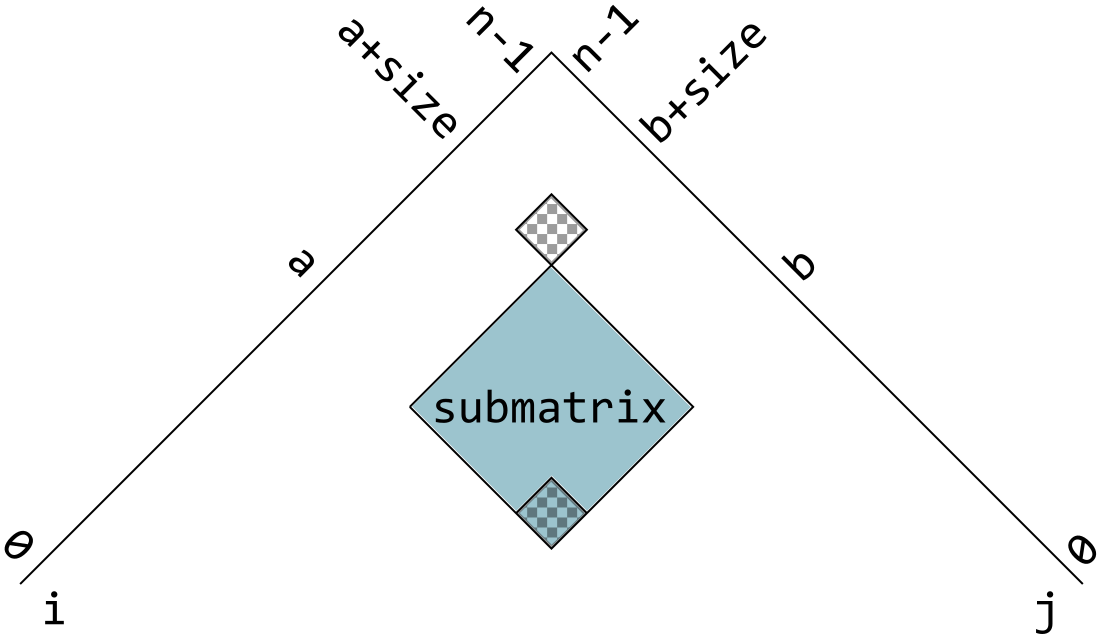
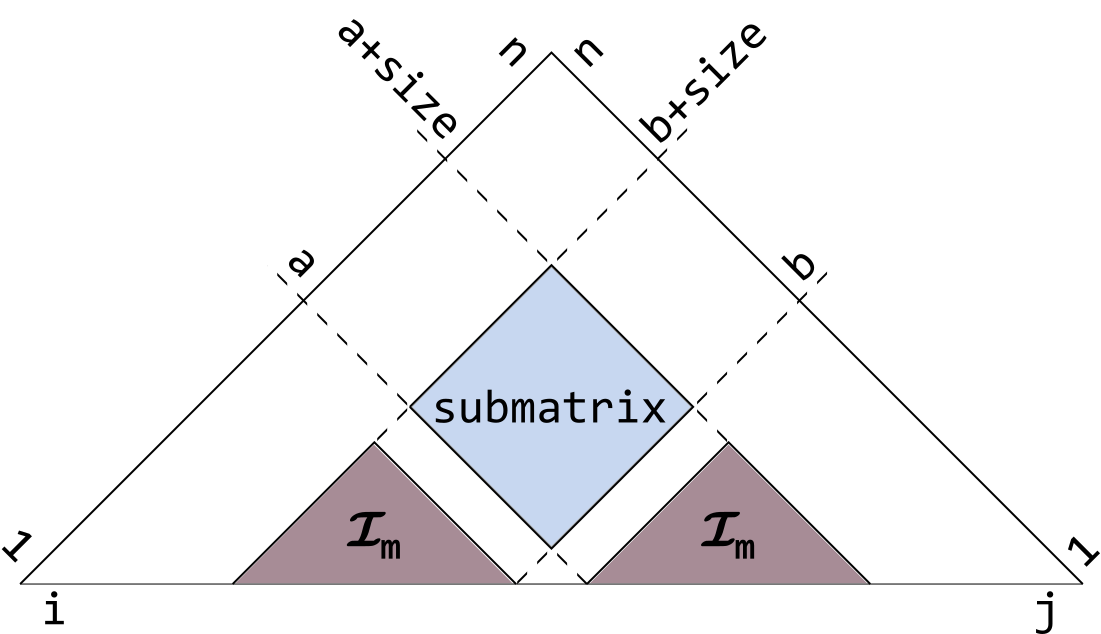
modificated CYK description updated

diff --git a/2016/bio/modificated CYK/jbalg.tex b/2016/bio/modificated CYK/jbalg.tex
@@ -23,32 +23,29 @@
 \newtheorem*{note}{Note}
 
 \setlength{\parskip}{5pt plus 2pt minus 1pt}
-\setlength{\parindent}{0pt}
+%\setlength{\parindent}{0pt}
 
 \usepackage{color}
 \usepackage{listings}
 \usepackage{caption}
 \usepackage{graphicx}
+\usepackage{ucs}
 
 \graphicspath{{pics/}}
 
 
-% \newcounter{nalg}[section] % defines algorithm counter for chapter-level
-% \renewcommand{\thenalg}{\thechapter .\arabic{nalg}} %defines appearance of the algorithm counter
-% \DeclareCaptionLabelFormat{algocaption}{Algorithm \thenalg} % defines a new caption label as Algorithm x.y
-
-\lstnewenvironment{algorithm}[1][] %defines the algorithm listing environment
+\lstnewenvironment{algorithm}[1][]
 {   
-    % \refstepcounter{nalg} %increments algorithm number
-    % \captionsetup{labelformat=algocaption,labelsep=colon} %defines the caption setup for: it ises label format as the declared caption label above and makes label and caption text to be separated by a ':'
-    \lstset{ %this is the stype
+    \lstset{ 
         frame=tB,
         numbers=left, 
         mathescape=true,
         numberstyle=\small,
         basicstyle=\small, 
+        inputencoding=utf8, 
+        extendedchars=\true,
         keywordstyle=\color{black}\bfseries,
-        keywords={,function, procedure, return, datatype, function, in, if, else, for, foreach, while, begin, end, denote, do, and, then,} %add the keywords you want, or load a language as Rubens explains in his comment above.
+        keywords={,function, procedure, return, datatype, function, in, if, else, for, foreach, while, denote, do, and, then, assert,} 
         numbers=left,
         xleftmargin=.04\textwidth,
         #1 % this is to add specific settings to an usage of this environment (for instnce, the caption and referable label)
@@ -68,137 +65,221 @@
 
 \begin{document}
 
-В работе (Охотин) предложен алгоритм ....
 
-АЛГОРТМ
+В работе~\cite{okhotin13} предложен алгоритм синтаксического анализа, основанный на перемножении матриц. 
+Для того, чтобы описать модификацию этого алгоритма, в разделе~\ref{se:term} мы введем немного измененную терминологию, дальше, в разделе~\ref{se:okhotin} переформулируем оригинальный алгоритм в рамках этой терминологии. Обещанную модификацию алгоритма опишем в секции \ref{se:modification}.
 
-Далее предложена модификация данного алгоритма. 
 
-Введем обозначения, немного отличающиеся от используемых в статье (Охотин, 2013).
-Пусть $G=(\Sigma, N, R, S)$ --- грамматика и $w = a_0 \dots a_{n-1}$ --- строка, причем $n + 1 = 2^k$. $T$ --- треугольная матрица $n \times n$ с элементами $T[i,j] \subseteq N$. Цель алгоритма --- заполнить ячейки матрицы $T$ так, чтобы выполнялось следующее условие:
+\section{Терминология}
+\label{se:term}
+% todo: нормальное название секции
+
+Введем обозначения, немного отличающиеся от используемых в статье~\cite{okhotin13}.
+Пусть $G=(\Sigma, N, R, S)$ --- грамматика в нормальной форме Хомского и $w = a_1 \dots a_{n}$ --- строка, причем $n + 1 = 2^k$. Ограничение на длину строки (для обоих рассмотренных алгоритмов) введены скорее из соображений простоты изложения, так как оба алгоритма довольно легко обобщаются на строки произвольной длины. Далее, пусть $T$ --- треугольная матрица $n \times n$ с элементами $T[i,j] \subseteq N;\ 1 \leqslant i, j \leqslant n$. Цель алгоритма --- заполнить ячейки матрицы $T$ так, чтобы выполнялось следующее условие:
 $$
-T[i,j] = \{A\,|\,a_{n-1-j} \dots a_{i} \in L(A)\}, \tab \mbox{при } 0 \leqslant i, j \leqslant n-1 \leqslant i+j\,.
+T[i,j] = \{A\,|\,a_{n+1-j} \dots a_{i} \in L(A)\}, \tab \mbox{при } 1 \leqslant i, j \leqslant n < i+j\,.
 $$
-Вторая матрица $P$ с элементами $P[i,j] \subseteq N \times N$ в результате должна быть заполнена значениями 
+Вспомогательная матрица $P$ с элементами $P[i,j] \subseteq N \times N$ в результате должна быть заполнена значениями 
 $$
-P[i,j] = \{(B,C)\, |\, a_{n-1-j} \dots a_{i} \in L(B)L(C)\}, \tab 0 \leqslant i, j \leqslant n-1 \leqslant i+j\,.
+P[i,j] = \{(B,C)\, |\, a_{n+1-j} \dots a_{i} \in L(B)L(C)\}, \tab 1 \leqslant i, j \leqslant n < i+j\,.
 $$
 
-\begin{definition}\label{def:def_1}
-Назовем \textit{(квадратной) подматрицей} такой набор пар индексов $S=\{(i,j)\}$, что для каких-то $0 \leqslant a, b\leqslant n-1 \leqslant a+b$ и $0 < size \leqslant n-a,n-b$  любая пара $(i,j)$, удовлетворяющая условиям $a \leqslant i < a + size$ и $b \leqslant j < b + size$, принадлежит множеству $S$. Тогда $size$ --- \textit{размер}, а пара индексов $(a,b)$ --- \textit{вершина} этой подматрицы.
+\begin{definition}
+Будем называть $(i, j)$ \textit{корректной} парой индексов, если для них выполнены условия $1 \leqslant i, j \leqslant n < i+j$.
+\end{definition}
+
+Заметим, что алгоритм в принципе рассматривает только те ячейка матриц $T$ и $P$, которые задаются корректными парами индексов.
+
+\begin{definition}
+\label{def:def_1}
+Назовем \textit{(квадратной) подматрицей} такой набор корректных пар индексов $S=\{(i,j)\}$, что существуют корректная пара индексов $(a, b)$ и $size > 0$, для которых выполнены следующие условия: $size \leqslant n+1-a$, $size \leqslant n+1-b$, а также любая пара $(i,j)$, удовлетворяющая условиям $a \leqslant i < a + size$ и $b \leqslant j < b + size$, принадлежит множеству $S$. Тогда $size$ --- \textit{размер}, а пара индексов $(a,b)$ --- \textit{вершина} этой подматрицы.
+\end{definition}
+
+\begin{definition}
+\label{def:def_2}
+Для подматрицы $m$ с вершиной $(a,b)$ и размером $s$ определим множество индексов $\mathcal{I}_m$, \textit{влияющее на подматрицу $m$}, как 
+$$\mathcal{I}_m = \{(i, j)\,|\,i < n + 1 - b,\,j < b + s\} \cup \{(i, j)\,|\,i < a + s,\,j < n + 1 - a\}\,.$$
 \end{definition}
 
 
-\begin{figure}[!ht]
+\begin{figure}[!h]
   \centering
     \includegraphics[width=0.9\linewidth]{submatrix.png}
-  \caption{Иллюстрация к определению~\ref{def:def_1}}
+  \caption{Иллюстрация к определениям~\ref{def:def_1} и \ref{def:def_2}: $(a,b)$ --- вершина подматрицы submatrix размером (size$\times$size); $\mathcal{I}_m$ --- зона, влияющая на подматрицу submatrix}
   \label{gr:submatrix}
 \end{figure}
-
 
 \begin{definition}
 Пусть $S$ --- подматрица. Будем обозначать через $T[S]$ и $P[S]$ подматрицы матриц $T$ и $P$, соответствующие множеству индексов $S$.
 \end{definition}
 
-Для описания алгоритма нам в первую очередь необходимо задать структуру для представления подматриц и определить для этой структуры следующие функции.
+\pagebreak
 
-\begin{algorithm}[caption={Submatrix helpers.}, label={helpers}]
-function size(submatrix)
-function vertex(submatrix)
+Для описания алгоритмов нам необходимо задать ряд вспомогательных функций для оперирования подматрицами. Эти функции представлены в листинге~\ref{helpers}.
 
-function leftSubmatrix(submatrix)
-function topSubmatrix(submatrix)
-function rightSubmatrix(submatrix)
-function bottomSubmatrix(submatrix)
+\begin{algorithm}[caption={Вспомогательные функции обработки подматриц}, label={helpers}]
+function $size(m)$
+function $bottomCell(m)$
 
-function rightNeighbor(submatrix)
-function leftNeighbor(submatrix)
-function rightGrounded(submatrix)
-function leftGrounded(submatrix)     
+function $leftSubmatrix(m)$
+function $topSubmatrix(m)$
+function $rightSubmatrix(m)$
+function $bottomSubmatrix(m)$
+
+function $rightNeighbor(m)$
+function $leftNeighbor(m)$
+function $rightGrounded(m)$
+function $leftGrounded(m)$     
 \end{algorithm}
 
-Здесь, функции size и vertex вычисляют соответственно размер и вершину подматрицы. Следующие четыре функции leftSubmatrix ---\linebreak bottomSubmatrix возвращают одну из подматриц, делящих исходную подматрицу на четыре части, как показано на рисунке \ref{gr:inner}.
+Функции $size(m)$ и $bottomCell(m)$ вычисляют размер и вершину подматрицы $m$ соответственно. Следующие четыре функции $leftSubmatrix(m)$~--- $bottomSubmatrix(m)$ возвращают одну из подматриц, делящих исходную подматрицу $m$ на четыре части, как показано на рисунке \ref{gr:inner}.
 
 
 \begin{figure}[!ht]
-  \caption{Иллюстрация к листингу}
-  \label{gr:inner}
   \centering
     \includegraphics[width=0.9\linewidth]{inner.png}
+  \caption{Иллюстрация к листингу~\ref{helpers}: разбиение матрицы на 4 компоненты}
+  \label{gr:inner}
 \end{figure}
 
 \pagebreak
 
-В свою очередь функции rightNeighbor --- leftGrounded возвращают подматрицы, сдвинутые относительно исходной так, как показано на рисунке \ref{gr:outer}.
+В свою очередь функции $rightNeighbor(m)$ и $leftNeighbor(m)$ возвращают подматрицы, сдвинутые относительно исходной на $size(m)$ по одной из осей, как показано на рисунке \ref{gr:outer}.
+Функции $rightGrounded(m)$ и $leftGrounded(m)$ (рисунок \ref{gr:outer}) также возвращают подматрицы, сдвинутые относительно $m$, но на этот раз величина сдвига вычисляется по формуле $a + b - (n + 1)$, где $(a,b)$ --- вершина матрицы $m$.
+Заметим, что для вершины $(i,j)$ любой их двух матриц $rightGrounded(m)$ и $leftGrounded(m)$ выполняется равенство $i + j = n + 1$. Это означает, что вершина расположена в самой <<нижней>> из использующихся диагоналей всей матрицы. 
 
 \begin{figure}[!ht]
-  \caption{Иллюстрация к листингу}
-  \label{gr:outer}
   \centering
     \includegraphics[width=0.9\linewidth]{outer.png}
-\end{figure}
+  \caption{Иллюстрация к листингу~\ref{helpers}: соседи матрицы}
+  \label{gr:outer}
+\end{figure} 
 
-Теперь можно приступить к описанию самого алгоритма. Он состоит из трех процедур.
 
-Главная процедура main сначала обрабатывает нижний слой матрицы $T$ (клетки $(i,j)$, для которых $i+j=n-1$), записывая в него корректные значения. Потом разбивает матрицу $T$ на слои, как показано на картинке \ref{gr:layers} (каждый слой состоит из набора подматриц, у каждой из которых отброшена нижняя четверть --- bottomSubmatrix). Полученные слои обрабатываются последовательно снизу вверх, с помощью процедуры completeVLayer, заполняя тем самым всю матрицу $T$. 
 
-\begin{figure}[!ht]
-  \caption{Первичное разбиение на слои}
-  \label{gr:layers}
-  \centering
-    \includegraphics[width=0.9\linewidth]{layers.png}
-\end{figure}
 
-Процедура completeVLayer, в свою очередь, принимает на вход набор подматриц $M$. Для каждого элемента $m$ этого набора процедура достраивает матрицу $T$ для трех верхних четвертей (leftSubmatrix$(m)$, \linebreak rightSubmatrix$(m)$ и topSubmatrix$(m)$). Для корректной работы этой функции необходимо, чтобы для любой $m \in M$ ячейки $T[i,j]$ были построены  для $(i,j) \in\ $bottomSubmatrix$(m)$, а также для таких $(i,j)$, что $i < a, j < b+s$ или $i < a+s, j < b$, где $(a,b)$ --- вершина, а $s$ --- размер подматрицы $m$. 
+\section{Алгоритм синтаксического анализа, основанный на перемножении матриц}
+\label{se:okhotin}
 
-Третья процедура --- completeLayer --- тоже принимает на вход набор подматриц $M$, но для каждого элемента $m$ этого набора достраивает матрицу $T$ для всей подматрицы $m$. Для корректной работы этой функции требуется, чтобы для любой $m \in M$ ячейки $T[i,j]$ были построены для таких $(i,j)$, что $i < a, j < b+s$ или $i < a+s, j < b$, где $(a,b)$ --- вершина, а $s$ --- размер подматрицы $m$. 
+Описание алгоритма, взятого из статьи ~\cite{okhotin13}, представлено в виде псевдокода, приведённого в следующем листинге~\ref{alg:okhotin}. 
 
-\begin{algorithm}[caption={Algorithm.}, label={main}]
-procedure main():
-  for $\ell$ in $(0,\,\dots,\,n-1)$ do
-    $T[\ell, n-1-\ell] = \{A\,|\,A \to a_{\ell} \in R\}$
-  for i in 1 .. k-1 do
-    denote layer = constructLayer(i)
-    completeVLayer(layer)  
+Здесь, процедура $compute(i, j)$ принимает на вход такие $i, j$, что $(i-1,j-1)$~--- корректная пара индексов и записывает значения во все ячейки $(i', j')$ матрицы $T$ такие, что  $i' + j' > n$, $i' < i$ и $j' < j$. 
 
-procedure completeLayer($M$):
-  if $m \in M$ and size($m$) = 1 then
-    denote cells = $\{$vertex$(m)\,|\, m \in M\}$
-    foreach $(x, y) \in $ cells do
-      T[x, y] = f(P[x, y])
-  else
-    denote bottomLayer = $\{$bottomSubmatrix$(m)\,|\,m \in M\}$
-    completeLayer(bottomLayer)
-    completeVLayer($M$)     
+Процедура $complete(m)$, в свою очередь, принимает на вход подматрицу $m$ и определена только для подматриц с размером, являющимся степенью двойки. $complete(m)$ вычисляет все значения матрицы $T$ на переданном ей множестве индексов $m$, при выполнении некоторых дополнительных условий. Во-первых, матрица $T$ должны быть корректно заполнена для всех пар индексов из множества $\mathcal{I}_m$. Во-вторых для всех $(i,j) \in m$ текущее значение $P[i,j]$ должно быть следующим:
+$$\{(B,C)\,|\,\exists k: n + 1 - b \leqslant k < a,\ a_{n+1-j}\dots a_k \in L(B) \mbox{ и } a_{k+1}\dots a_i \in L(C)\}\,,$$
+где $(a,b)$~--- вершина подматрицы $m$.
 
-procedure completeVLayer($M$):
-  denote leftSubLayer = $\{$leftSubmatrix$(m)\,|\,m \in M\}$
-  denote rightSubLayer = $\{$rightSubmatrix$(m)\,|\,m \in M\}$
-  denote topSubLayer = $\{$topSubmatrix$(m)\,|\,m \in M\}$
-
-  foreach $m \in$ leftSubLayer do
-    P[m] = P[m] $\cup$ (T[leftGrounded(m)] $\times$ T[rightNeighbor(m)])
-  foreach $m \in$ rightSubLayer do
-    P[m] = P[m] $\cup$ (T[leftNeighbor(m)] $\times$ T[rightGrounded(m)])
-
-  completeLayer(leftSubLayer $\cup$ rightSubLayer)
-
-  foreach $m \in$ topSubLayer do
-    P[m] = P[m] $\cup$ (T[leftGrounded(m)] $\times$ T[rightNeighbor(m)])
-  foreach $m \in$ topSubLayer do
-    P[m] = P[m] $\cup$ (T[leftNeighbor(m)] $\times$ T[rightGrounded(m)])
-
-  completeLayer(topSubLayer)  
+\begin{algorithm}[caption={Алгоритм синтаксического анализа, основанный на перемножении матриц}, label={alg:okhotin}] 
+procedure $main()$:
+    $compute(n + 1, n + 1)$
+    
+procedure $compute(i, j)$:
+    if $i + j - n \geqslant 4$ then
+        $compute\left(i, \frac{j}{2}\right)$
+        $compute\left(\frac{i}{2}, j\right)$
+    denote $m = submatrixByBottomCellAndSize\left(\left(\frac{n + i - j}{2},\frac{n + j - i}{2}\right),\ \frac{i + j - n}{2}\right)$
+    $complete(m)$
+    
+procedure $complete(m)$
+    denote $(i, j) = bottomCell(m)$
+    if $size(m) = 1$ and $i + j = n$ then
+        $T[i,j] = \{A\,|\,A\to a_i \in R\}$
+    else if $size(m) = 1$ then
+        $T[i,j] = f(P[i,j])$
+    else if $size(m) > 1$ then
+        denote $\mathcal{B} = bottomSubmatrix(m)$, $\mathcal{L} = leftSubmatrix(m)$,
+               $\mathcal{R} = rightSubmatrix(m)$, $\mathcal{T} = topSubmatrix(m)$
+        $complete(\mathcal{B})$
+        $P[\mathcal{L}] = P[\mathcal{L}] \cup \left(T[leftGrounded(\mathcal{L})] \times T[\mathcal{B}]\right)$
+        $complete(\mathcal{L})$
+        $P[\mathcal{R}] = P[\mathcal{R}] \cup \left(T[\mathcal{B}] \times T[rightGrounded(\mathcal{R})]\right)$
+        $complete(\mathcal{R})$
+        $P[\mathcal{T}] = P[\mathcal{T}] \cup \left(T[leftGrounded(\mathcal{T})] \times T[\mathcal{R}]\right)$
+        $P[\mathcal{T}] = P[\mathcal{T}] \cup \left(T[\mathcal{L}] \times T[rightGrounded(\mathcal{T})]\right)$
+        $complete(\mathcal{T})$
 \end{algorithm}
 
-Процедура main реализуется через completeVLayer очевидным образом. Процедура completeLayer по сути аналогична процедуре complete из статьи, за исключением того, что она выполняется сразу для нескольких матриц. Таким же образом отдельно разбирается случай, когда переданные матрицы имеют размер $1 \times 1$. Иначе матрицы разбиваются на четыре части и сначала следует рекурсивный вызов от bottomSubmatrix (для всех переданных матриц), а затем вызов процедуры completeVLayer, которая обрабатывает верхние части матриц. 
+\section{Модифицированный алгоритм}
+\label{se:modification}
 
-Процедура completeVLayer для каждой из переданных матриц сначала выполняет два перемножения (соответствует 14 и 16 строкам в алгоритме из статьи), затем вызывает completeLayer от rightSubmatrix и leftSubmatrix (15 и 17 строки оригинального алгоритма), далее выполняет оставшиеся два умножения (строки 18 и 19) и, наконец, вызывает completeLayer от оставшейся части topSubmatrix (строка 20).
+Далее предложена модификация исходного алгоритма синтаксического анализа, предназначенная для его более естественной адаптации к задаче поиска подстрок, выводимых в заданной грамматике.
+
+Главная процедура $main$ сначала обрабатывает нижний слой матрицы $T$ (клетки $(i,j)$, для которых $i+j=n+1$), записывая в него корректные значения. Потом разбивает матрицу $T$ на слои, как показано на картинке \ref{gr:layers} (каждый слой состоит из набора подматриц, у каждой из которых отброшена нижняя четверть --- $bottomSubmatrix$). Полученные слои обрабатываются последовательно снизу вверх, с помощью процедуры $completeVLayer$, заполняя тем самым всю матрицу $T$.
+
+\begin{figure}[!ht]
+  \centering
+    \includegraphics[width=0.9\linewidth]{layers.png}
+  \caption{Первичное разбиение на слои}
+  \label{gr:layers}
+\end{figure}
 
 
-Представленная модификация позволяет ....
+Процедура $completeVLayer$, в свою очередь, принимает на вход набор подматриц $M$. Эти подматрицы не должны пересекаться, а также для любых двух подматриц $m_1, m_2 \in M$; $(a_i,b_i),\ s_i$~--- вершина и размер $m_i$ соответственно, должно выполняться $s_1 = s_2$ и $a_1 + b_1 = a_2 + b_2$. Для каждого элемента $m$ множества $M$ процедура достраивает матрицу $T$ для трех верхних четвертей ($leftSubmatrix(m)$, $rightSubmatrix(m)$ и $topSubmatrix(m)$). Для корректной работы этой функции, во-первых, необходимо, чтобы для любой $m \in M$ ячейки $T[i,j]$ были построены  для $(i,j) \in\ bottomSubmatrix(m)$ и для $(i,j) \in\ \mathcal{I}_m$. Во-вторых, требуется удовлетворение ограничения на матрицу $P$, аналогичного ограничению в случае процедуры $complete$ оригинального алгоритма, а именно: для любой $m \in M$ и для всех $(i,j) \in m$ текущее значение $P[i,j]$ должно быть следующим:
+$$\{(B,C)\,|\,\exists k: n + 1 - b \leqslant k < a,\ a_{n+1-j}\dots a_k \in L(B) \mbox{ и } a_{k+1}\dots a_i \in L(C)\}\,,$$
+где $(a,b)$~--- вершина подматрицы $m$.
 
+Третья процедура --- $completeLayer$ --- тоже принимает на вход набор подматриц $M$, но для каждого элемента $m$ этого набора достраивает матрицу $T$ для всей подматрицы $m$. Ограничения на входные данные такие же, как и у процедуры $completeVLayer$. Для корректной работы этой функции необходимо, чтобы для любой $m \in M$ ячейки $T[i,j]$ были построены для $\mathcal{I}_m$, а так же выполнение того же требования на $P$, что и в предыдущем случае. 
 
+\begin{algorithm}[caption={Алгоритм}, label={main}]
+procedure $main()$:
+  for $\ell$ in $(1,\,\dots,\,n)$ do
+    $T[\ell, n+1-\ell] = \{A\,|\,A \to a_{\ell} \in R\}$
+  foreach $1 \leqslant i < k$ do
+    denote layer = $constructLayer(i)$
+    $completeVLayer($layer$)$  
+
+procedure $completeLayer(M)$:
+  if $\forall\ m \in M$, $size(m) = 1$ then
+    denote cells = $\{bottomCell(m)\,|\, m \in M\}$
+    foreach $(x, y) \in $ cells do
+      $T[x, y] = f(P[x, y])$
+  else
+    denote bottomLayer = $\{bottomSubmatrix(m)\,|\,m \in M\}$
+    $completeLayer($bottomLayer$)$
+    $completeVLayer(M)$     
+
+procedure $completeVLayer(M)$:
+  denote leftSubLayer = $\{leftSubmatrix(m)\,|\,m \in M\}$
+  denote rightSubLayer = $\{rightSubmatrix(m)\,|\,m \in M\}$
+  denote topSubLayer = $\{topSubmatrix(m)\,|\,m \in M\}$
+
+  foreach $m \in$ leftSubLayer do
+    $P[m] = P[m] \cup (T[leftGrounded(m)] \times T[rightNeighbor(m)])$
+  foreach $m \in$ rightSubLayer do
+    $P[m] = P[m] \cup (T[leftNeighbor(m)] \times T[rightGrounded(m)])$
+
+  $completeLayer($leftSubLayer $\cup$ rightSubLayer$)$
+
+  foreach $m \in$ topSubLayer do
+    $P[m] = P[m] \cup (T[leftGrounded(m)] \times T[rightNeighbor(m)])$
+  foreach $m \in$ topSubLayer do
+    $P[m] = P[m] \cup (T[leftNeighbor(m)] \times T[rightGrounded(m)])$
+
+  $completeLayer($topSubLayer$)$  
+\end{algorithm}
+
+Процедура $main$ реализуется через $completeVLayer$ очевидным образом. Для построения множества подматриц, составляющий слой под номером $i$ используется функция $constructLayer(i)$, реализация которой оставлена за скобками. Процедура $completeLayer$ по сути аналогична процедуре $complete$ из статьи, за исключением того, что она выполняется сразу для нескольких матриц. Таким же образом отдельно разбирается случай, когда переданные матрицы имеют размер $1 \times 1$. Иначе матрицы разбиваются на четыре части и сначала следует рекурсивный вызов от $bottomSubmatrix$ (для всех переданных матриц), а затем вызов процедуры $completeVLayer$, которая обрабатывает верхние части матриц. 
+
+Процедура $completeVLayer$ для каждой из переданных матриц сначала выполняет два перемножения (соответствует 21 и 23 строкам в алгоритме из статьи), затем вызывает $completeLayer$ от $rightSubmatrix$ и $leftSubmatrix$ (22 и 24 строки оригинального алгоритма), далее выполняет оставшиеся два умножения (строки 25 и 26) и, наконец, вызывает $completeLayer$ от оставшейся части $topSubmatrix$ (строка 27).
+
+% Наверное надо сказать пару слов о том. почему эти алгоритмы делают одно и то же?...
+
+\section{Заключение}
+
+Заметим, что если мы хотим адаптировать алгоритм для задачи поиска подстроки длины не большей, чем какое-то заданное $m \ll n$, тогда нам надо строить матрицы $T$ и $P$ только для индексов $i + j \leqslant n + m$. В этом случае в оригинальном алгоритме придется производить большое количество <<холостых>> рекурсивных вызовов. В модифицированном алгоритме этого отчасти можно избежать, изменив верхнюю границу в цикле for (строка 4 листинга \ref{main}).
+
+Также представленная модификация алгоритма собирает вместе все умножения матриц одного размера (и расположенных на одном <<уровне>>), которые можно сделать независимо друг от друга. Это позволяет более эффективно распараллеливать эти умножения.
+
+\begin{thebibliography}{9}
+
+\bibitem{okhotin13}
+  Alexander Okhotin,
+  ``Parsing by matrix multiplication generalized to Boolean grammars'',
+  \emph{Theoretical Computer Science},
+  V. 516,
+  p. 101--120,
+  January 2014
+
+\end{thebibliography}
 
 \end{document}
